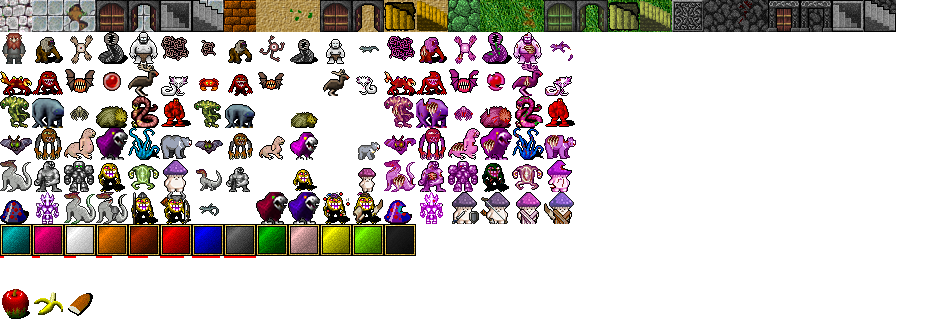
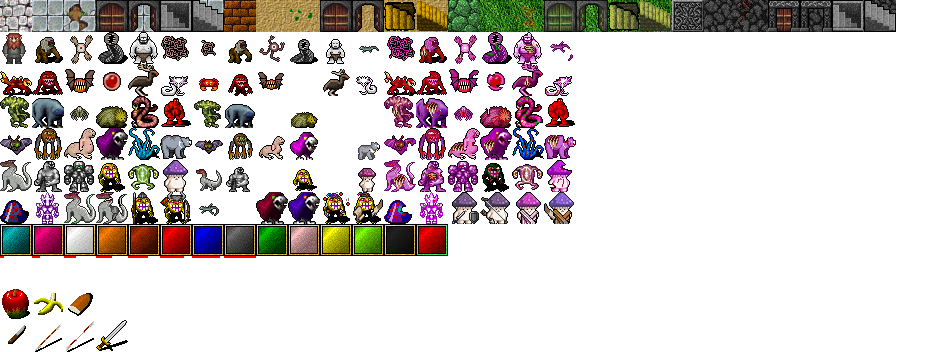
add some weapon

diff --git a/assets/index.js b/assets/index.js
@@ -19,6 +19,7 @@ var Game = {
     if (this.screenHeight < 10) {
       this.screenHeight = 10;
     }
+//init main display
     this.display = new ROT.Display({
       width: this.screenWidth,
       height: this.screenHeight + 1,
@@ -31,11 +32,13 @@ var Game = {
       tileSet: tileSet,
       tileMap: gameTilemap
     });
+//bar with nums
     this.podskazka = new ROT.Display({
       width: this.screenWidth * 4,
       height: 1,
       fontSize: 13
     });
+//messages
     this.messages = new ROT.Display({
       width: this.screenWidth * 4,
       height: 11,
@@ -64,33 +67,19 @@ var Game = {
     Game.inventory.push(newfood);
     newfood = Game.ItemRepository.create("bread");
     Game.inventory.push(newfood);
+    newfood = Game.ItemRepository.create("knife");
+    Game.inventory.push(newfood);
+    newfood = Game.ItemRepository.create("spear");
+    Game.inventory.push(newfood);
+    newfood = Game.ItemRepository.create("glefa");
+    Game.inventory.push(newfood);
+    newfood = Game.ItemRepository.create("longsword");
+    Game.inventory.push(newfood);
     this.drawAll();
     this.engine = new ROT.Engine(scheduler);
     this.engine.start();
   }
 }
-
-Game.drawBar = function() {
-  for (let i = 1; i < 10; i++) {
-    Game.podskazka.draw((i - 1) * 4 + 1, 0, i, "beige");
-    Game.display.draw((i - 1), Game.screenHeight, "blanksquare");
-  }
-  var invpodsk = ['a', 'b', 'c', 'd', 'e', 'f', 'g', 'h', 'i', 'j', 'k', 'l', 'm', 'n', 'o', 'p'];
-  for (let i = 0; i < 16; i++) {
-    Game.podskazka.draw((i + Game.screenWidth - 16) * 4 + 2, 0, invpodsk[i], "beige");
-    if (typeof Game.inventory[i] === 'undefined') {
-      Game.display.draw(i + Game.screenWidth - 16, Game.screenHeight, "blanksquare");
-    } else {
-      var itemtype = Game.inventory[i].type;
-      var _color = "blanksquare";
-      if (itemtype == "food") {
-        _color = "greensquare";
-      }
-      Game.display.draw(i + Game.screenWidth - 16, Game.screenHeight, [_color, Game.inventory[i].Symbol],["#0000", "#0000"]);
-    }
-  }
-}
-
 
 Game.drawAll = function() {
   this.messages.clear();

diff --git a/assets/items.js b/assets/items.js
@@ -1,4 +1,5 @@
 Game.ItemRepository = new Game.Repository('items', Item);
+//food
 
 Game.ItemRepository.define('apple', {
   name: "apple",
@@ -27,5 +28,55 @@ Game.ItemRepository.define('bread', {
   options: {
     food: 100,
     hprestore: 20
+  }
+});
+
+//weapon
+Game.ItemRepository.define('knife', {
+  name: "knife",
+  Symbol: "knife",
+  type: "weapon",
+  options: {
+    size: "onehand",
+    minatk: 1,
+    maxatk: 2,
+    wielded: "no"
+  }
+});
+
+Game.ItemRepository.define('spear', {
+  name: "spear",
+  Symbol: "spear",
+  type: "weapon",
+  options: {
+    size: "onehand",
+    minatk: 1,
+    maxatk: 4,
+    wielded: "no"
+  }
+});
+
+Game.ItemRepository.define('glefa', {
+  name: "glefa",
+  Symbol: "glefa",
+  type: "weapon",
+  options: {
+    wielded: "no",
+    size: "twohand",
+    minatk: 1,
+    maxatk: 8,
+    wielded: "no"
+  }
+});
+
+Game.ItemRepository.define('longsword', {
+  name: "longsword",
+  Symbol: "longsword",
+  type: "weapon",
+  options: {
+    size: "twohand",
+    minatk: 3,
+    maxatk: 7,
+    wielded: "no"
   }
 });

diff --git a/assets/item.js b/assets/item.js
@@ -66,3 +66,27 @@ Game.pickupItem = function() {
     Game.messagebox.sendMessage("You cant pickup anything.");
   }
 }
+
+Game.drawBar = function() {
+  for (let i = 1; i < 10; i++) {
+    Game.podskazka.draw((i - 1) * 4 + 1, 0, i, "beige");
+    Game.display.draw((i - 1), Game.screenHeight, "blanksquare");
+  }
+  var invpodsk = ['a', 'b', 'c', 'd', 'e', 'f', 'g', 'h', 'i', 'j', 'k', 'l', 'm', 'n', 'o', 'p'];
+  for (let i = 0; i < 16; i++) {
+    Game.podskazka.draw((i + Game.screenWidth - 16) * 4 + 2, 0, invpodsk[i], "beige");
+    if (typeof Game.inventory[i] === 'undefined') {
+      Game.display.draw(i + Game.screenWidth - 16, Game.screenHeight, "blanksquare");
+    } else {
+      var itemtype = Game.inventory[i].type;
+      var _color = "blank";
+      if (itemtype == "food") {
+        _color = "green";
+      }
+      if (itemtype == "weapon") {
+        _color = "red";
+      }
+      Game.display.draw(i + Game.screenWidth - 16, Game.screenHeight, [_color + "square", Game.inventory[i].Symbol],["#0000", "#0000"]);
+    }
+  }
+}

diff --git a/assets/tilemap.js b/assets/tilemap.js
@@ -1,6 +1,7 @@
 var tileSet = document.createElement("img");
 tileSet.src = "assets/tiles.png";
 var gameTilemap = {
+//terrains
   "dungeonwall": [0, 0],
   "dungeonfloor": [32, 0],
   "dungeonfloorrandom": [64, 0],
@@ -29,6 +30,7 @@ var gameTilemap = {
   "oldmazedooropen": [800, 0],
   "oldmazestairdown": [832, 0],
   "oldmazestairup": [864, 0],
+//entities
   "@": [0, 32],
   "hp1": [0,256],
   "hp2": [32,256],
@@ -44,10 +46,19 @@ var gameTilemap = {
   "giant": [128, 32],
   "tangleofworms": [160,32],
   "worm": [192,32],
+//bar
   "whitesquare": [64,224],
+  "redsquare": [160,224],
+  "redwieldsquare": [416,224],
   "blanksquare": [384,224],
   "greensquare": [352,224],
+//food
   "apple": [0,288],
   "banana": [32,288],
-  "bread": [64,288]
+  "bread": [64,288],
+//weapon
+  "knife": [0,320],
+  "spear": [32,320],
+  "glefa": [64,320],
+  "longsword": [96,320]
 };

diff --git a/assets/entity.js b/assets/entity.js
@@ -373,7 +373,7 @@ Game.drawEntities = function() {
 
 Hpregen = function() {
   this.getSpeed = function() {
-    let speed = Game.player.Str * 5 + 5;
+    let speed = Game.player.Con * 5 + 5;
     return speed;
   }
 }
